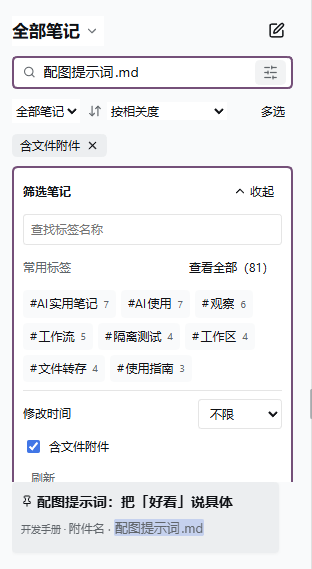
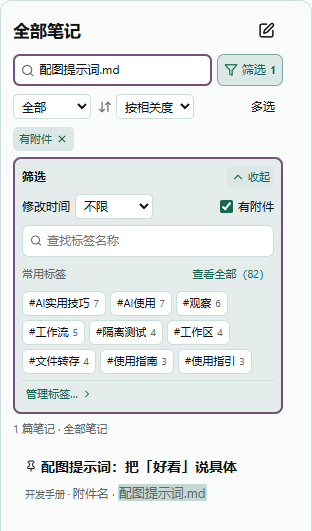
release: 准备肥鱼笔记 0.10.0
更新版本、用户手册、图解说明及最新版宿主验收原则。候选 425 项全量回归和双向同步通过。正式包仅调整两份 README，已在 RC5 桌面、独立窗口和 Web 安装及读回。

diff --git a/src/notes/handbook.ts b/src/notes/handbook.ts
@@ -11,11 +11,11 @@ import type { SyncResource } from './sync-resources.js'
 
 export interface InitialNotes { objects: NoteObjects; files: Map<string, Buffer> }
 export type InitialNotesProvider = (local: NoteObjects, remote: NoteObjects) => Promise<InitialNotes | undefined>
-const handbookContentVersion = 3
+const handbookContentVersion = 4
 const chapters = [
-  ['welcome','v3/01-welcome.md','01 开始使用','创建、查找与整理，让常用内容随手可得。'],
+  ['welcome','v4/01-welcome.md','01 开始使用','创建、查找与整理，让常用内容随手可得。'],
   ['materials','v2/02-materials.md','02 资料与交付','添加图片和文件，转存会话，选择合适的导出形式。'],
-  ['deliver','v2/03-deliver.md','03 保存与注意事项','分清草稿、正式保存和同步，按自己的习惯阅读。'],
+  ['deliver','v4/03-deliver.md','03 保存与注意事项','分清草稿、正式保存和同步，按自己的习惯阅读。'],
 ] as const
 const legacyKeys=['welcome','write','materials','capture','find','deliver']
 const root = new URL('../../assets/handbook/', import.meta.url)
@@ -62,7 +62,7 @@ function generations(objects:NoteObjects,version=handbookContentVersion):number[
 export function existingHandbook(objects:NoteObjects):string|null {
   const rows=new Map<string,typeof objects.revisions>()
   for(const row of objects.revisions){const list=rows.get(row.noteId)??[];list.push(row);rows.set(row.noteId,list)}
-  for(const version of [handbookContentVersion,2,1])for(const n of generations(objects,version).reverse())for(const key of version===1?legacyKeys:chapters.map(row=>row[0])){
+  for(const version of [handbookContentVersion,3,2,1])for(const n of generations(objects,version).reverse())for(const key of version===1?legacyKeys:chapters.map(row=>row[0])){
     const id=handbookId(n,key,version),revisions=rows.get(id)
     if(!objects.deleted?.includes(id)&&revisions&&materializeNote(revisions,id).current.status==='active')return id
   }

diff --git a/test/handbook.test.ts b/test/handbook.test.ts
@@ -29,6 +29,7 @@ test('bundled handbook is deterministic, contains three linked editable chapters
   const {noteId,created}=await openHandbook(repo,true);assert.equal(created,true);assert.equal(noteId,handbookId(0,'welcome'))
   const notes=(await repo.list({order:'recent'})).items;assert.equal(notes[0]!.noteId,noteId)
   assert.match((await repo.get(noteId!)).current.body,/搜索笔记或附件名[\s\S]*点击即可跳到原句/)
+  assert.match((await repo.get(noteId!)).current.body,/分类管理 → 标签[\s\S]*核对正文/)
   for(const row of a.objects.revisions){
     const note=await repo.get(row.noteId);assert.equal(note.current.body,row.body);assert.doesNotMatch(row.body,/handbook-(?:note|asset|file):/)
     for(const match of row.body.matchAll(/fatfish-note:([0-9A-Z]{26})/g))await repo.get(match[1]!)
@@ -164,7 +165,7 @@ test('local empty state restores a populated or trashed remote without adding a 
 })
 
 
-for(const version of [1,2])test(`handbook v${version} identities remain discoverable and edited content is preserved`,async t=>{
+for(const version of [1,2,3])test(`handbook v${version} identities remain discoverable and edited content is preserved`,async t=>{
  const {repo}=await fixture(t),book=await repo.saveNotebook({notebookId:handbookId(0,'book',version),expectedHeads:[],title:'我的旧手册'})
  const note=await repo.save({noteId:handbookId(0,'welcome',version),expectedHeads:[],content:{title:'用户改过的开头',body:'我的补充',summary:'',tags:[],status:'active',notebookId:book.notebookId,sourceId:null,assetIds:[]}})
  assert.notEqual(note.noteId,handbookId(0,'welcome'));assert.equal((await openHandbook(repo,true)).noteId,note.noteId);assert.deepEqual((await repo.get(note.noteId)).heads,note.heads);assert.equal((await repo.list()).items.length,1)

diff --git a/lib/notes/handbook.js b/lib/notes/handbook.js
@@ -6,11 +6,11 @@ import { canonical, digest, fail } from './validation.js';
 import { createNotebookRevision, createNoteRevision, materializeNote } from './revisions.js';
 import { DEFAULT_NOTEBOOK_ID, DEFAULT_NOTEBOOK_TIME } from './notebooks.js';
 import { validateAsset } from './assets.js';
-const handbookContentVersion = 3;
+const handbookContentVersion = 4;
 const chapters = [
-    ['welcome', 'v3/01-welcome.md', '01 开始使用', '创建、查找与整理，让常用内容随手可得。'],
+    ['welcome', 'v4/01-welcome.md', '01 开始使用', '创建、查找与整理，让常用内容随手可得。'],
     ['materials', 'v2/02-materials.md', '02 资料与交付', '添加图片和文件，转存会话，选择合适的导出形式。'],
-    ['deliver', 'v2/03-deliver.md', '03 保存与注意事项', '分清草稿、正式保存和同步，按自己的习惯阅读。'],
+    ['deliver', 'v4/03-deliver.md', '03 保存与注意事项', '分清草稿、正式保存和同步，按自己的习惯阅读。'],
 ];
 const legacyKeys = ['welcome', 'write', 'materials', 'capture', 'find', 'deliver'];
 const root = new URL('../../assets/handbook/', import.meta.url);
@@ -66,7 +66,7 @@ export function existingHandbook(objects) {
         list.push(row);
         rows.set(row.noteId, list);
     }
-    for (const version of [handbookContentVersion, 2, 1])
+    for (const version of [handbookContentVersion, 3, 2, 1])
         for (const n of generations(objects, version).reverse())
             for (const key of version === 1 ? legacyKeys : chapters.map(row => row[0])) {
                 const id = handbookId(n, key, version), revisions = rows.get(id);

diff --git a/docs/plans/2026-11-20-release-0100.zh.md b/docs/plans/2026-11-20-release-0100.zh.md
@@ -1,0 +1,34 @@
+# 肥鱼笔记 0.10.0 候选准备与验收
+
+2026-11-20 用户确认按上一轮复查结论更新说明、制作并验收 0.10.0 候选。以 `8ec2c37` 为功能基线，上一公开版为 [0.9.3](https://github.com/StarWind97/dsh-fatfish-notes/releases/tag/v0.9.3)。本轮交付本地候选和验证记录。公开发布、市场更新与扩大宿主支持范围另行确认。
+
+## 实施范围
+
+- 随包手册新内容版本覆盖统一搜索、分类管理和阅读标签，沿用其他仍准确的篇目、素材和附件。按[手册内容规则](../../assets/handbook/README.md)保留旧种子与稳定身份。升级时打开原有手册，空库和按需补入使用新版。
+- 更新[图解使用说明](../user-guide.zh.md)和[详细操作参考](../user-guide-reference.zh.md)的查找、分类管理、阅读标签和会话关联入口。重拍搜索示例，补一张实际分类管理图示。保留仍能说明操作的其他图片。
+- 将插件版本及锁文件的根包版本对齐到 0.10.0，准备当版说明、安装包与校验值。宿主声明沿用 `>=0.2.2-rc.3 <0.2.3-0`，以实际使用的宿主组合报告证据。
+
+## 验证与回退
+
+1. 记录安装前的候选、工作区和隔离资料归属。对照上一轮全量回归与实拍，复查改动过的手册和实际 UI，运行类型检查、构建、手册回归与最终候选全量回归。实拍检查相关控件、文字清晰度与图注是否相符。比较包内容与既有候选，核对同一正式候选的安装文件、手册内链、图片和附件。
+2. 用项目隔离资料从原版本升级，检查旧手册仍可打开、新收入的手册可浏览，以及搜索、分类管理和会话侧栏关键入口。从 [DSH 0.2.2-rc.3](https://github.com/deepseek-ai/deepseek-harness/releases/tag/dsh-v0.2.2-rc.3) 官方分发抽查最低支持版本，记清 Desktop 或 Web。用现有 rc.5 桌面及独立 Web 确认同一候选可正常运行。
+3. 用指定私库重新实测双向。Web 实际编辑并保存一篇本轮临时笔记，核对私库已收到该修订，再从桌面读回同一内容。以桌面写入的下一版核对另一个方向。优先并行准备文档、宿主与离线验证，避免两个进程同时写同一条测试笔记。遇到账号或网络错误先核对失败阶段，再按证据择机重试。
+4. 保留 0.9.3 正式包和原使用说明作为已发布版本记录；若候选安装异常，关闭相应隔离宿主后可重装先前已验证包。实测只用 `.dsh-home/pure-001/` 内资料与指定私库，结束后关闭本轮启动的进程，并提供可重开的体验入口。
+
+## 进度
+
+- 已确认范围，开始实施。工作区 `main` 基线干净，已有 424 项全量测试及 Windows rc.5 桌面、rc.4／rc.5 Web 功能实测。上一轮桌面写入后 Web 读回通过，Web 回传遇到 GitHub 账号或仓库核验失败。本轮复核以正式候选及实际反向读回为准。
+- 已制作 0.10.0 候选。类型检查、构建及隔离安装校验通过，桌面和 Web 各 261 个文件逐一核对。与上一轮候选相比，应用界面构建产物一致，运行代码差异限手册加载。实际解包的 v4 手册导入三篇、两处链接、一张配图、两份附件通过，原 0.9.3 手册的修订保持。
+- 第一次 rc.5 Web 本机保存成功，联网核验出现错误。用验证可达的进程网络路径从官方 rc.4 Web 运行同一候选，续传原保存版本，已在指定私库核对该修订。继续验收桌面读回及再次保存。
+- 桌面及独立窗口读回 Web 修订，桌面保存的下一版也已在指定私库核对。全量 425 项通过。图解替换两张候选实拍。最低版因新旧安装缓存格式和目录归属不同，改用新的 rc.3 Web 资料和独立本机副本。官方 rc.3 实装逐文件核对及实际查找、分类和手册均通过。
+- rc.5 Web 打开桌面写入的精确修订，双向同步闭环通过。所有验收阶段已收尾，详细范围、版本组合和校验值见[验收记录](../releases/0.10.0/review.zh.md)。本轮候选与更新后的使用说明已就绪，待确认公开发布。[启动隔离桌面候选](../../scripts/Open-Fatfish-Notes.cmd)。
+
+## 正式发布
+
+用户已确认发布 0.10.0，并确认将「及时核对 DSH 新版，最新版主测，最多按需抽查上一版」写入[宿主更新约定](../../AGENTS.md#兼容声明)。本轮以官方最新的 rc.5 核验正式包。已完成的早期宿主实测留在历史记录，安装声明以已验收候选为准。
+
+1. 更新两份 README 的版本、安装说明和使用说明入口。发布说明突出分类管理、统一查找与阅读标签，沿用仍准确的展示图，在使用说明中提供本次已验收的两张新实拍。
+2. 打包并逐文件比较已完成 425 项回归的候选。按包内差异决定需要复验的范围。在隔离 rc.5 桌面和 Web 核对正式包安装及已存在的笔记、手册和关键入口。
+3. 提交并核对远端版本。从该提交发布正式标签和 GitHub Release。固定名、带版本名的包及校验文件先在草稿核对，再公开并设为最新。验证公开链接匿名下载的摘要、市场现用条目及其升级识别。保留 0.9.3 的版本化包作为回退。
+
+正式包仅更新两份 README。rc.5 桌面与 Web 实装和读回通过，市场主分支已使用固定下载入口。正式包的摘要与实测范围见[验收记录](../releases/0.10.0/review.zh.md#正式包复核)。

diff --git a/README.en.md b/README.en.md
@@ -11,7 +11,7 @@
 
 Keep useful conversations as Markdown notes. Read, edit and reference them beside your chats, with local storage and sync through your own private GitHub repository.
 
-> Version **0.9.3** declares DSH `>=0.2.2-rc.3 <0.2.3-0`. Verified on **rc.5 Windows Desktop, rc.4 Web and rc.5 Web mode**. See the [release notes](docs/releases/0.9.3/release-notes.md) and [verification record](docs/releases/0.9.3/review.zh.md).
+> Use the latest supported DSH with Fatfish Notes **0.10.0**. This version declares DSH `>=0.2.2-rc.3 <0.2.3-0`. See the [release notes](docs/releases/0.10.0/release-notes.md) and [verification record](docs/releases/0.10.0/review.zh.md).
 
 ![Keep image results, editing prompts and observations together](https://raw.githubusercontent.com/StarWind97/dsh-fatfish-notes/main/assets/screenshots/2026-11-17/01-image.png)
 
@@ -20,7 +20,7 @@ Keep useful conversations as Markdown notes. Read, edit and reference them besid
 - Save a turn, selected messages or an entire conversation. Choose uploaded and AI-delivered files, preserve their position in the note, and keep the original conversation for comparison.
 - Search, read, edit and create notes in the conversation sidebar. Link notes to a conversation and add a note-copy reading instruction to the composer for review before sending.
 - Edit Markdown in place, paste or drop files, and switch images between inline display and download links.
-- Search text and attachment names, combine filters, and jump to a matching passage. Organize with favorites, pins, note links, bulk actions and version history.
+- Search text and attachment names, combine filters, and jump to a matching passage. Review affected notes before changing tags. Organize with favorites, pins, note links, bulk actions and version history.
 - Choose from eight layouts and ten palettes, adjust prose fonts and code highlighting, and share appearance preferences across views of the same DSH instance.
 - Export a single PNG using the reading layout, a PDF for reading or printing, or a Markdown bundle with original images and files.
 - Save locally while offline after initial setup; sync resumes when connected. Import Markdown files, folders or ZIPs, and export a notebook or the full library.
@@ -33,7 +33,7 @@ Keep code snippets, results, files and related notes together for the next time 
 
 ## Installation and upgrade
 
-Download the [latest stable plugin package, `dsh-fatfish-notes.tgz`](https://github.com/StarWind97/dsh-fatfish-notes/releases/latest/download/dsh-fatfish-notes.tgz). Versioned downloads and checksums are on the [0.9.3 release page](https://github.com/StarWind97/dsh-fatfish-notes/releases/tag/v0.9.3). Users staying on rc.1 can keep 0.8.0 and its corresponding data format.
+Download the [latest stable plugin package, `dsh-fatfish-notes.tgz`](https://github.com/StarWind97/dsh-fatfish-notes/releases/latest/download/dsh-fatfish-notes.tgz). Versioned downloads and checksums are on the [0.10.0 release page](https://github.com/StarWind97/dsh-fatfish-notes/releases/tag/v0.10.0). If your DSH version is too old, update it first.
 
 Start DSH once to initialize its profile, then quit it. Install a matching package using its actual path:
 
@@ -43,7 +43,7 @@ dsh plugin --profile desktop add "D:\Downloads\dsh-fatfish-notes.tgz"
 
 Web users should replace `desktop` with their profile name. If `dsh` is not on PATH, use `resources\runtime\cli\bin\dsh.cmd` inside the DSH installation directory. Restart DSH and open Fatfish Notes.
 
-Users on 0.9.1 or 0.9.2 can install 0.9.3 into the same DSH profile and reopen DSH with their existing notes and private repository. Finish syncing, close DSH and the separate note window, and back up the local notebook folder and `DSH_HOME/fatfish-notes`. **When upgrading from 0.8.0, upgrade all instances sharing one repository together.** A downgrade needs a matching host and pre-upgrade backup. Existing templates and edited handbooks remain available as notes.
+Users on 0.9.3 can install 0.10.0 into the same DSH profile and reopen DSH with their existing notes and private repository. Finish syncing, close DSH and the separate note window, and back up the local notebook folder and `DSH_HOME/fatfish-notes`. **When upgrading from 0.8.0, upgrade all instances sharing one repository together.** A downgrade needs a matching host and pre-upgrade backup. Existing templates and edited handbooks remain available as notes.
 
 ## Getting started
 
@@ -61,7 +61,7 @@ Use list import/export for Markdown migration. Open exported copies in other edi
 
 ## Scope and limitations
 
-- See the [0.9.3 verification record](docs/releases/0.9.3/review.zh.md) for the tested desktop and Web setups.
+- See the [0.10.0 verification record](docs/releases/0.10.0/review.zh.md) for the tested desktop and Web setups.
 - The separate window uses installed Chrome or Edge and depends on DSH staying open.
 - Appearance preferences are shared within one DSH instance, not across devices. Temporary light/dark overrides affect the current view; the sidebar always follows DSH. Favorites, pins and notebook order sync through the private repository.
 - Referencing does not send a message automatically or register a native composer attachment. Optional AI suggestions cover title, summary and tags during capture; note bodies are edited manually.

diff --git a/README.md b/README.md
@@ -11,7 +11,7 @@
 
 把值得留下的会话整理成自己的笔记，在会话旁阅读、修改和复用。笔记保存在本机，通过自己的 GitHub 私有仓库同步。
 
-> 当前版本 **0.9.3**，声明支持 DSH `>=0.2.2-rc.3 <0.2.3-0`。已实测 **rc.5 Windows 桌面版、rc.4 Web 和 rc.5 Web 模式**。见[新版说明](docs/releases/0.9.3/release-notes.md)和[验证记录](docs/releases/0.9.3/review.zh.md)。
+> 当前版本 **0.10.0**，推荐使用兼容范围内最新的 DSH。本版声明支持 `>=0.2.2-rc.3 <0.2.3-0`。见[版本说明](docs/releases/0.10.0/release-notes.md)和[验证记录](docs/releases/0.10.0/review.zh.md)。
 
 ![留下生图结果、修改指令和使用心得](https://raw.githubusercontent.com/StarWind97/dsh-fatfish-notes/main/assets/screenshots/2026-11-17/01-image.png)
 
@@ -20,7 +20,7 @@
 - **选择并保存**：保存一轮问答、几条消息或整个会话，选择用户上传与 AI 交付的图片和文件。正文保留素材位置，原始会话可以随时对照。
 - **在会话旁使用**：侧栏中查找、阅读、修改和新建笔记，关联当前会话；把笔记副本的读取说明加入输入框，检查后再发送。
 - **自由整理内容**：原地编辑 Markdown，粘贴或拖入图片和附件。纯图片默认展示，混合文件默认链接，图片可随时切换展示形式。
-- **找回并组织**：按文字和附件名搜索，组合筛选并定位正文原句。支持收藏、置顶、笔记互链、批量整理和历史恢复。
+- **找回并组织**：按文字和附件名搜索，组合筛选并定位正文原句。整理标签前可查看受影响的笔记和正文。支持收藏、置顶、笔记互链、批量整理和历史恢复。
 - **按习惯阅读**：八套布局、十种配色，中文与西文字体、代码高亮和字重可调；主界面与独立窗口共享外观偏好，侧栏始终跟随 DSH 明暗。
 - **按用途交付**：单张 PNG 沿用阅读版式与选定宽度；PDF 适合阅读和打印；Markdown 资源包保留图片及附件原件。
 - **本机保存与私库同步**：首次设置完成后，断网仍可编辑保存，联网自动续传。可导入 Markdown 文件、文件夹或 ZIP，也可导出整本或整个笔记库。
@@ -33,7 +33,7 @@
 
 ## 安装与升级
 
-下载[最新正式安装包 `dsh-fatfish-notes.tgz`](https://github.com/StarWind97/dsh-fatfish-notes/releases/latest/download/dsh-fatfish-notes.tgz)。指定版本与校验文件见 [0.9.3 发布页](https://github.com/StarWind97/dsh-fatfish-notes/releases/tag/v0.9.3)。仍使用 rc.1 的用户可保留旧 0.8.0。新版资料需由相应版本的插件读写。
+下载[最新正式安装包 `dsh-fatfish-notes.tgz`](https://github.com/StarWind97/dsh-fatfish-notes/releases/latest/download/dsh-fatfish-notes.tgz)。指定版本与校验文件见 [0.10.0 发布页](https://github.com/StarWind97/dsh-fatfish-notes/releases/tag/v0.10.0)。如果 DSH 版本过低，请先升级 DSH。新版资料需由相应版本的插件读写。
 
 取得与宿主匹配的插件包后，先打开一次 DSH 完成初始化，再完全退出 DSH。在终端执行，替换为实际文件路径：
 
@@ -43,7 +43,7 @@ dsh plugin --profile desktop add "D:\Downloads\dsh-fatfish-notes.tgz"
 
 重新打开 DSH，在左侧进入「肥鱼笔记」。Web 使用者将 `desktop` 换成自己的 profile 名称。若找不到 `dsh`，使用 DSH 安装目录下 `resources\runtime\cli\bin\dsh.cmd` 的完整路径。
 
-0.9.1 或 0.9.2 用户可以在现有 DSH 资料中直接安装 0.9.3，重启后沿用原私库和笔记。升级前完成同步，关闭独立窗口及 DSH，备份本机笔记资料夹和 `DSH_HOME/fatfish-notes`。**从 0.8.0 升级时，同一私库各端须一起升级宿主与插件。** v3/v4 资料需要新版插件，回退需要配套宿主及升级前备份。旧模板和已编辑的手册继续作为笔记保留。
+0.9.3 用户可以在现有 DSH 资料中直接安装 0.10.0，重启后沿用原私库和笔记。升级前完成同步，关闭独立窗口及 DSH，备份本机笔记资料夹和 `DSH_HOME/fatfish-notes`。**从 0.8.0 升级时，同一私库各端须一起升级宿主与插件。** v3/v4 资料需要新版插件，回退需要配套宿主及升级前备份。旧模板和已编辑的手册继续作为笔记保留。
 
 ## 开始使用
 
@@ -61,7 +61,7 @@ dsh plugin --profile desktop add "D:\Downloads\dsh-fatfish-notes.tgz"
 
 ## 使用边界
 
-- 桌面和 Web 的实测范围见 [0.9.3 验证记录](docs/releases/0.9.3/review.zh.md)。
+- 桌面和 Web 的实测范围见 [0.10.0 验证记录](docs/releases/0.10.0/review.zh.md)。
 - 独立窗口使用 Windows 上已安装的 Chrome 或 Edge，依赖 DSH 保持运行。
 - 外观偏好在同一 DSH 内共享，不跨设备同步；明暗手动切换只影响当前视图，宿主再次切换时恢复跟随。收藏、置顶和笔记本顺序随私库同步。
 - 引用不会自动发送，也尚未登记到宿主原生附件栏。AI 只在转存时可选生成标题、摘要和标签，正文由用户编辑。

diff --git a/docs/user-guide.zh.md b/docs/user-guide.zh.md
@@ -4,7 +4,7 @@
 
 ![DSH 会话截图。标注 1 指向会话标题栏靠右的小鱼，标注 2 指向已完成回答下方的「保存到笔记」。右侧是打开后的会话笔记。](images/user-guide/conversation-entries.png)
 
-[保存问答](#保存会话里的问答) · [边聊边用笔记](#在会话侧栏使用笔记) · [主界面](#写笔记与找笔记) · [首次设置](#首次设置) · [保存与同步](#保存与同步) · [导出](#导出与迁移)
+[保存问答](#保存会话里的问答) · [边聊边用笔记](#在会话侧栏使用笔记) · [主界面](#写笔记与找笔记) · [整理标签](#整理笔记本与标签) · [首次设置](#首次设置) · [保存与同步](#保存与同步) · [导出](#导出与迁移)
 
 ## 保存会话里的问答
 
@@ -16,7 +16,7 @@
 
 ## 在会话侧栏使用笔记
 
-点会话标题栏的小鱼，右侧就会打开 **「会话笔记」**。刚从这段会话保存的资料，可在 **「关联的笔记 → 从本会话保存」** 找到。想找其他资料，切到 **「查找笔记」**。
+点会话标题栏的小鱼，右侧就会打开 **「会话笔记」**。这段会话转存的资料会自动出现在 **「关联的笔记」**，条目会标记「从本会话保存」。想找库里的其他资料，切到 **「查找笔记」**。打开一篇后，可以点左上角返回，接着看刚才的结果。
 
 ![同一场景的实拍。左侧继续讨论改图，右侧打开生图记录。标注先指向笔记工具栏的「引用」，再指向确认窗底部的「加入输入框」。](images/user-guide/reuse-in-conversation.png)
 
@@ -25,9 +25,19 @@
 ## 写笔记与找笔记
 
 - **写笔记**　点「新建笔记」，或在已有笔记上点「编辑」。
-- **找笔记**　输入记得的词或附件名，例如 `配图提示词.md`。结果太多时，点搜索框旁的「筛选笔记」，加上标签或「含文件附件」。点带正文片段的结果，可直接跳到原句。
+- **找笔记**　可以先在「全部笔记」里搜索，也可以先选笔记本。输入记得的词或附件名，例如 `配图提示词.md`。想缩小范围时，点搜索框旁的筛选按钮，选择标签、修改时间或「有附件」。点带正文片段的结果，可直接跳到原句。
 
-![输入配图提示词.md，在筛选笔记中勾选含文件附件。结果下方标出了匹配的附件名。](images/user-guide/workspace-map.png)
+![从全部笔记搜索配图提示词.md，展开筛选并勾选「有附件」，结果标出匹配的附件名。](images/user-guide/workspace-map.png)
+
+常常在几篇笔记之间来回看时，可以用阅读标签切换和拖动排序。标签栏末尾的「+」会打开概览，从最近打开或最近修改的笔记继续阅读。
+
+## 整理笔记本与标签
+
+从顶栏打开 **「分类管理」**，选择「笔记本」或「标签」。图中正在核对把「AI实用技巧」合并到「AI使用」的影响。先选「AI实用技巧」，点「合并」，再查找要保留的「AI使用」。
+
+![合并预览实拍。左侧查找要保留的「AI使用」，中间显示来源标签及其影响范围，右侧预览「写读书分享」的正文与标签变化。](images/user-guide/tag-management.png)
+
+确认前可以核对全库影响，点击中间列表里的笔记，在右侧看到正文与标签会怎样变化。改名、合并和移除操作只更改标签。参见[标签管理](user-guide-reference.zh.md#标签管理)。
 
 ## 首次设置
 
@@ -72,6 +82,6 @@
 <a name="多选和清空回收站061-开发版"></a>
 <a name="工作区笔记本设置与取消操作"></a>
 
-[图片与附件](user-guide-reference.zh.md#图片正文文件与补充附件) · [导入与整库导出](user-guide-reference.zh.md#导入整库导出与附件) · [笔记本管理](user-guide-reference.zh.md#笔记本管理) · [回收站](user-guide-reference.zh.md#多选和清空回收站) · [会话侧栏设置](user-guide-reference.zh.md#工作区笔记本设置与取消操作)
+[图片与附件](user-guide-reference.zh.md#图片正文文件与补充附件) · [导入与整库导出](user-guide-reference.zh.md#导入整库导出与附件) · [笔记本管理](user-guide-reference.zh.md#笔记本管理) · [标签管理](user-guide-reference.zh.md#标签管理) · [回收站](user-guide-reference.zh.md#多选和清空回收站) · [会话侧栏设置](user-guide-reference.zh.md#工作区笔记本设置与取消操作)
 
-适用版本 **0.9.3**。见 [详细操作参考](user-guide-reference.zh.md) 和 [版本说明](releases/0.9.3/release-notes.md)。
+适用 **0.10.0**。见 [详细操作参考](user-guide-reference.zh.md) 和 [版本说明](releases/0.10.0/release-notes.md)。使用公开版 0.9.3 时，可查看 [0.9.3 使用说明](https://github.com/StarWind97/dsh-fatfish-notes/blob/v0.9.3/docs/user-guide.zh.md)。

diff --git a/docs/README.md b/docs/README.md
@@ -2,6 +2,8 @@
 
 ## 当前状态
 
+- **0.10.0 已完成候选验收，用户已确认公开发布。** 425 项全量通过，Web 和 Windows 桌面的双向同步通过，随包手册与图解使用说明已更新。[候选验收](releases/0.10.0/review.zh.md) · [实施规划](plans/2026-11-20-release-0100.zh.md) · [启动隔离桌面](../scripts/Open-Fatfish-Notes.cmd)。
+
 - 2026-11-20 [会话侧栏宽窄布局修正](plans/2026-11-20-unified-search-ui.zh.md#侧栏宽窄布局修正)完成隔离桌面和 Web 验收。宽栏自动显示笔记本，窄栏下拉贴着按钮，结果数与「多选」同排。100 项相关测试通过，待体验。[启动隔离桌面](../scripts/Open-Fatfish-Notes.cmd)。侧栏查找已有可按需执行的[浏览器回归](../test/browser/README.md#会话侧栏查找)。
 
 - 2026-11-20 [常用标签随空间排布](plans/2026-11-20-adaptive-search-tags.zh.md)完成隔离验收。共用面板使用按内容宽度换行的标签，选中保持原位。91 项相关回归通过，待体验。[启动隔离桌面](../scripts/Open-Fatfish-Notes.cmd)。
@@ -10,7 +12,7 @@
 - 2026-11-20 [会话侧栏笔记列表标签](plans/2026-11-19-conversation-list-tab.zh.md)已完成隔离验收，待体验。当前会话的列表可用「+」或返回箭头恢复，笔记在列表标签原位打开，窄栏保留「+」。使用[隔离桌面入口](../scripts/Open-Fatfish-Notes.cmd)重开。
 - 2026-11-19 [阅读区标签、概览与拖动排序](plans/2026-11-19-browser-style-reading-tabs.zh.md)已完成隔离验收，待体验。短竖线分隔，概览原位打开笔记，末尾「+」再开概览。悬停使用普通箭头。rc.5 Windows Desktop 和独立窗口实测通过。用[隔离体验入口](../scripts/Open-Fatfish-Notes.cmd)重开。
 - 2026-11-19 正式发布 [0.9.3](https://github.com/StarWind97/dsh-fatfish-notes/releases/tag/v0.9.3)。414 项全量回归通过，rc.5 Windows 桌面与 rc.4、rc.5 Web 验收完成，两套公开链接安装各 255 文件一致。固定链接的市场切换 PR #16876 已提交。见[发布记录](releases/0.9.3/review.zh.md)和[兼容验收](plans/2026-11-19-release-rc5-preflight.zh.md)。
-- 2026-11-19 已落实[回归安排](../AGENTS.md#验证范围)。下一版拟扩大 DSH 兼容范围至 `>=0.2.2-rc.3 <0.3.0-0`。是否启动 `0.2.3` 候选的隔离验收由用户决定，实际范围按[兼容声明](../AGENTS.md#兼容声明)在验收通过后更新。
+- 后续发版按[回归安排](../AGENTS.md#验证范围)和[宿主更新约定](../AGENTS.md#宿主更新检查兼容优化与新机会)执行。新宿主可用后按[实测结果](../AGENTS.md#兼容声明)确定兼容范围。
 - 2026-11-19 [本机搜索与统一筛选](plans/2026-11-19-local-search.zh.md)随 0.9.3 发布。支持先搜索或先选笔记本、在同一面板查标签、按附件名查找和定位正文原句。
 - 2026-11-18 正式发布 [0.9.2](https://github.com/StarWind97/dsh-fatfish-notes/releases/tag/v0.9.2)。同一候选包通过 rc.3 Windows Desktop 从 0.9.1 升级、rc.4 Web 安装及双向保存同步，407 项全量回归通过。rc.4 Windows Desktop 未实测。见[发布与市场状态](releases/0.9.2/review.zh.md)及[隔离体验](plans/2026-11-18-dsh-compatibility-range-092.zh.md#体验与证据)。
 - [图解使用说明](user-guide.zh.md)包含会话保存、侧栏引用和一张查找与筛选的实拍。[详细操作参考](user-guide-reference.zh.md)按需查阅。
@@ -23,6 +25,7 @@
 
 | 任务 | 分支、目录与涉及范围 | 进度与下一步 |
 | --- | --- | --- |
+| [0.10.0 正式发布](plans/2026-11-20-release-0100.zh.md#正式发布) | `main`，主目录。宿主更新约定、正式包、GitHub Release 与现有市场入口。 | 正式包已完成 rc.5 桌面及 Web 验收。正在发布并复核公开下载。 |
 
 按[多会话协作约定](../AGENTS.md#多会话协作)维护本表。根据工作区差异和专项记录核对实际进度。
 

diff --git a/docs/releases/0.10.0/review.zh.md b/docs/releases/0.10.0/review.zh.md
@@ -1,0 +1,27 @@
+# 肥鱼笔记 0.10.0 候选验收
+
+2026-11-20。0.10.0 已完成候选验收，用户已确认公开发布。范围和回退方案见[本轮规划](../../plans/2026-11-20-release-0100.zh.md)。
+
+## 候选包
+
[1 lines of base64/hex data omitted]
+- rc.5 Windows 隔离桌面以正式 0.9.3 为升级对照，随后安装候选。rc.5 Web 及官方 rc.3 Web 也完成安装。每处逐一核对全部 261 个文件。rc.3 使用独立宿主资料，避开新旧宿主的安装缓存差异。
+- 对照上一轮已实测候选，界面构建产物一致。包内差异集中在版本标记、手册内容和加载代码，新增两个 v4 章节。声明支持 `>=0.2.2-rc.3 <0.2.3-0`，项目依赖沿用原解析。
+
+## 已完成的验收
+
+- 类型检查和构建通过。全量回归 425 项通过，失败、跳过和取消均为零。
+- 解包候选后实际导入 v4 手册三篇，检查首页配图、两处篇目内链和两份附件。从 0.9.3 包导入的 v3 样本仍打开原修订。隔离 rc.5 Windows 界面也打开了资料中原有的手册。
+- [图解使用说明](../../user-guide.zh.md)和[详细操作参考](../../user-guide-reference.zh.md)已对齐。两张新图在候选的独立窗口重拍，分别显示全库搜索与「有附件」结果，以及标签合并影响和所选笔记正文。合并图仅执行到预览并取消。
+- [最低宿主 rc.3](https://github.com/deepseek-ai/deepseek-harness/releases/tag/dsh-v0.2.2-rc.3)使用官方 Web 运行时与归属独立的本机资料副本。实际验证进入插件、附件名和正文查找、组合筛选、分类管理及原手册。匿名请求被拒绝，经宿主授权后正常访问。最低版本的实测组合为 Web。
+- 隔离 rc.5 Web 保存后本机读回。首次联网核验失败，改用已验证的进程连接路径，从官方 rc.4 Web 续传同一修订。指定测试私库已收到它，rc.5 Windows 主界面与独立窗口打开的是同一版本。桌面随后保存下一版，私库收录，独立 rc.5 Web 读回同一标题、正文和修订。两次上传和两端读回均保留证据。留一篇明示用途的验收样本供复查。
+
+## 正式包复核
+
[1 lines of base64/hex data omitted]
+
+在隔离 rc.5 Windows 桌面与 Web 安装正式包，各 261 个文件与包内一致。桌面主界面、独立窗口和 Web 均读回先前同步的笔记。桌面主界面与 Web 均能打开旧手册，Web 分类管理可打开。Web 匿名请求返回 401，宿主授权后返回 200。
+
+本地证据位于 `.dsh-home/pure-001/release0100/`，包含 `full-test.log`、安装逐文件比对、`handbook-package.json`、`guide-screenshots.json`、`web-minimum.json` 和双端修订记录。本轮启动的验收进程已关闭。
+
+[启动已安装的隔离桌面候选](../../../scripts/Open-Fatfish-Notes.cmd)

diff --git a/assets/handbook/v4/01-welcome.md b/assets/handbook/v4/01-welcome.md
@@ -1,0 +1,35 @@
+![安静的桌面，翻开的笔记与窗边的光](handbook-asset:desk)
+
+## 留下有用的内容
+
+肥鱼笔记把会话、文字、图片和文件放在一起，保存在本机，并通过你的专用 GitHub 私有仓库同步。
+
+这本手册只有三篇，可以像普通笔记一样修改、移动或删除。删除后可从设置中的用户手册入口重新添加。
+
+## 从这里开始
+
+1. 点击 **新建笔记**，填写标题，在正文中直接输入或粘贴 Markdown。
+2. 用工具栏添加标题、列表、链接、表格和代码块。草稿会自动保存在本机，点击 **完成编辑** 写入正式笔记。
+3. 按用途分到笔记本，按需添加标签或摘要。
+
+> **保存与同步是两件事。** 草稿保存在本机，正式保存后才会参与同步。离线时可以继续编辑，联网后再同步。
+
+## 找到并整理
+
+想找一份曾保存的文件，在「搜索笔记或附件名」输入记得的词，例如 `交付检查清单.md`。可以先从「全部笔记」搜索，也可以先选笔记本。
+
+结果太多时，点搜索框旁的「筛选笔记」，选一个标签、修改时间或「有附件」。标签太多就点「查看全部」。结果显示正文片段时，点击即可跳到原句。
+
+### 整理全库标签
+
+例如，已经有「交付」和「项目交付」两个名字，想以后都用「交付」。打开 **「分类管理 → 标签」**，选择「项目交付」，点「合并」，查找并选择要保留的「交付」。确认前，查看受影响的笔记数量，并点开几篇核对正文。改名与移除也可先查看影响范围。
+
+| 想做什么 | 在哪里操作 |
+| --- | --- |
+| 集中查看重要笔记 | 点击星标，在「全部笔记」下方进入「收藏」 |
+| 让常用笔记排在前面 | 条目或正文的更多菜单 → 置顶笔记 |
+| 调整笔记本次序 | 拖动笔记本，或在菜单中上移、下移 |
+| 一起整理多篇笔记 | 开启多选后，点击条目任意位置选择 |
+| 查看之前保存的内容 | 正文更多菜单 → 历史版本 |
+
+继续阅读：[图片、文件与会话转存](handbook-note:materials) · [保存、同步与注意事项](handbook-note:deliver)
